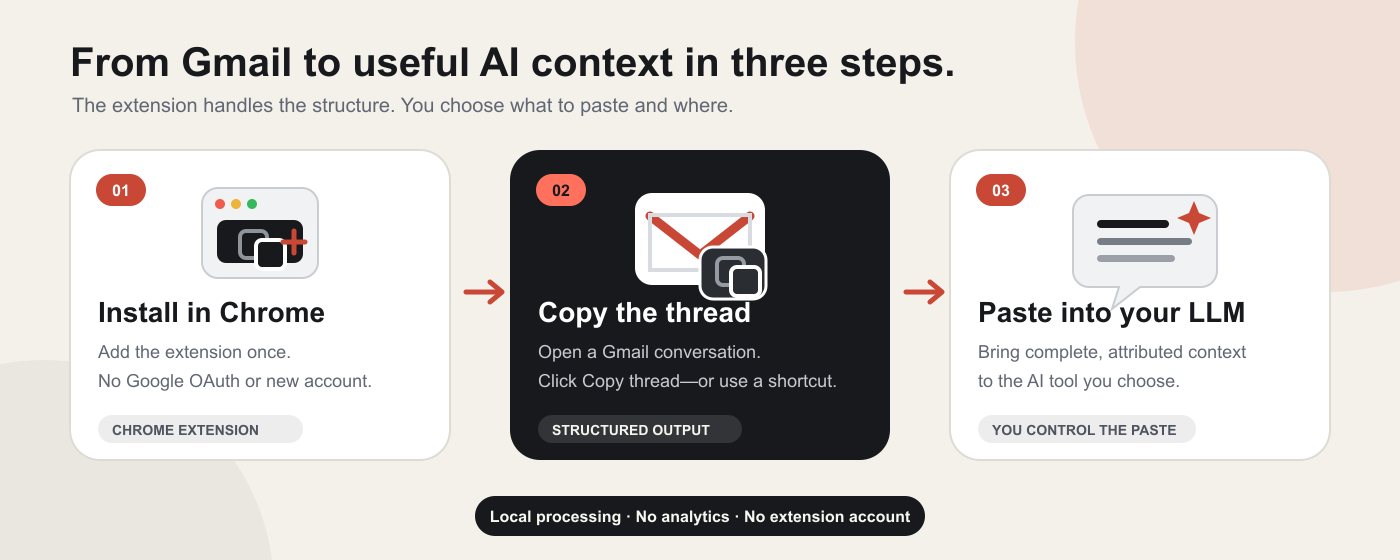
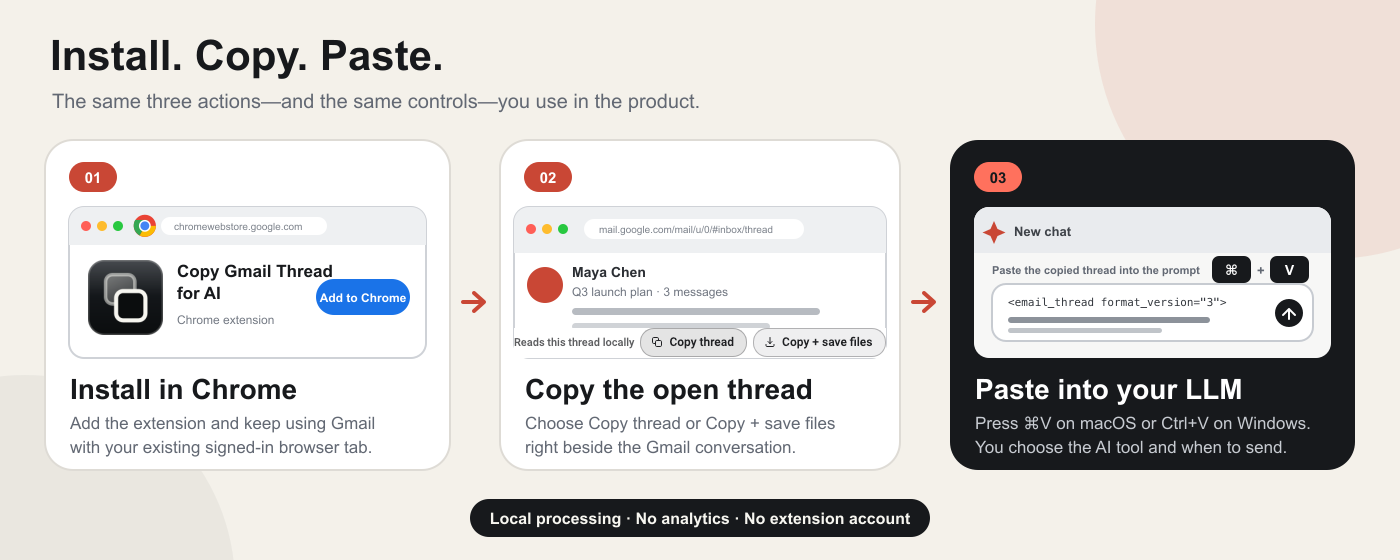
Show the literal install copy paste workflow

diff --git a/README.md b/README.md
@@ -27,7 +27,7 @@ Local processing · No Google OAuth · No extension account**
 
 ## How it works
 
-![Three-step workflow: install the Chrome extension, copy the open Gmail thread, and paste the structured context into an LLM.](store-assets/workflow-install-copy-paste-1400x560.png)
+![Three-step product workflow: install the production extension icon in Chrome, use the exact Copy thread or Copy plus save files controls beside a Gmail conversation, then press Command-V or Control-V to paste the structured context into an LLM prompt.](store-assets/workflow-install-copy-paste-1400x560.png)
 
 1. **Install the extension.** Add it to Chrome once. It uses the Gmail session
    already open in your browser—there is no separate login, Google OAuth flow,
